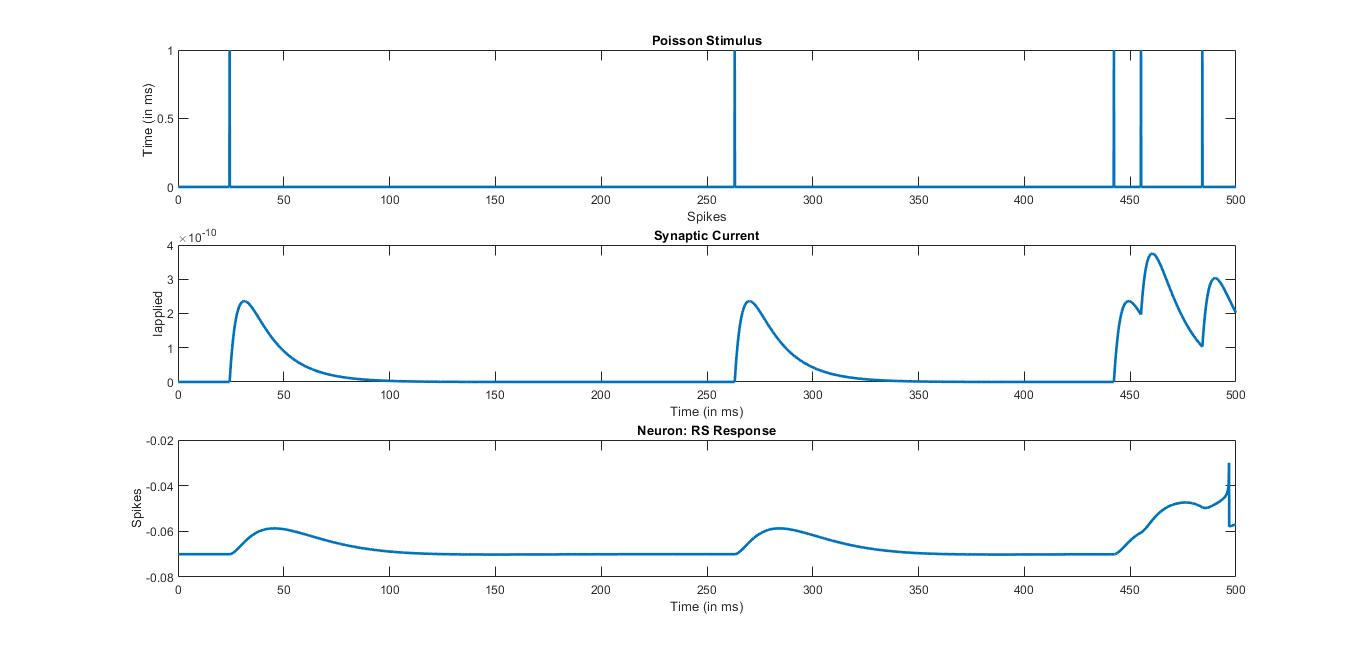
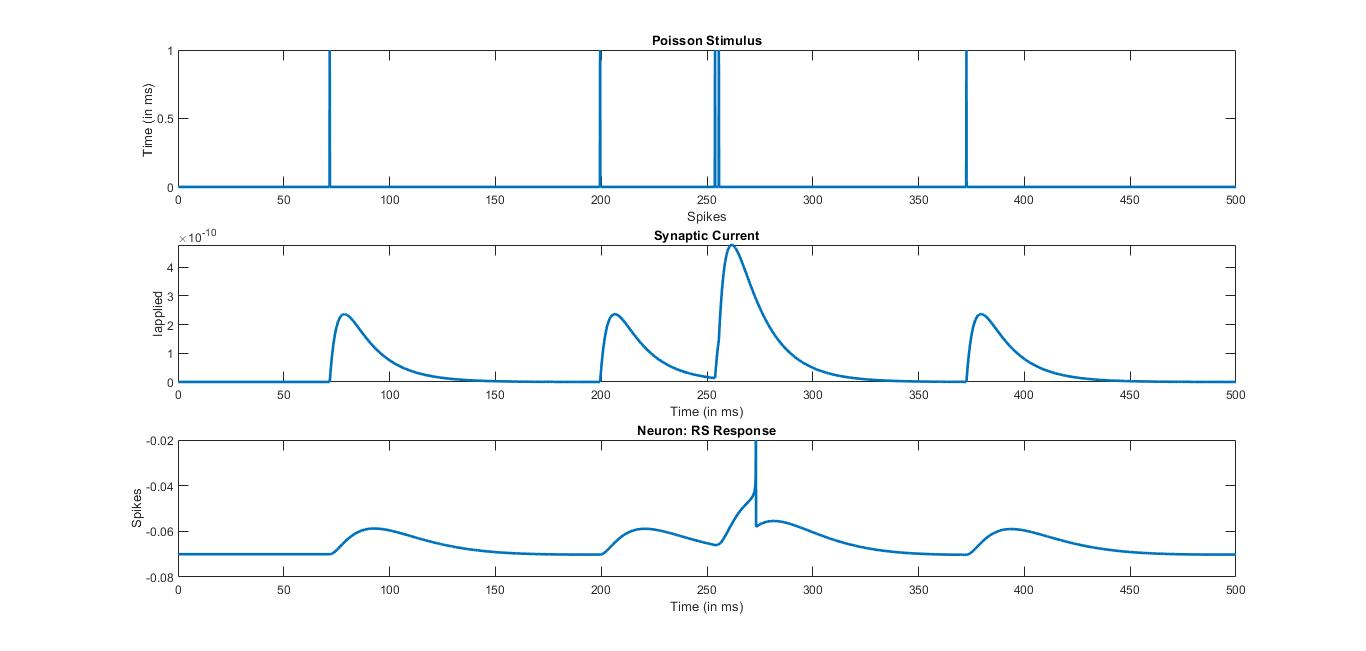
Problem 1-2 solved

diff --git a/Assignment 2/main.m b/Assignment 2/main.m
@@ -5,7 +5,7 @@ dt = 0.1e-3;
 k = 10;
 lambda = k*dt;
 time = (dt:dt:T);
-poisson_output = makedist('Poisson', 'lambda', lambda);
+poisson_output = makedist('Poisson','lambda',lambda);
 t_size = length(time);
 stimulus = zeros(1,t_size);
 fprintf('Time Instants: ');
@@ -16,12 +16,13 @@ for i = 1:t_size
         fprintf('%f, ', i*dt); %timestamp
     end
 end
+figure(1);
 subplot(3,1,1);
 plot(time.*1000,stimulus(1,:), 'Linewidth',2);
 title('Poisson Stimulus');
 xlabel('Spikes');
 ylabel('Time (in ms) ');
-% PART (b)
+% PART (b) - Total Current Calculation
 I0 = 1e-12;
 we = 500;
 tau = 15e-3;
@@ -46,10 +47,110 @@ plot(time.*1000, V_t, 'linewidth', 2);
 title(sprintf('Neuron: RS Response'));
 xlabel('Time (in ms)');
 ylabel('Spikes');
-%% Problem 2
+%% Problem 2a
 Ns = 100;
 w0 = 50;
 sigma_w = 5;
+T = 0.5;
+dt = 1e-4;
+l_t = 1;
+lambda = l_t*dt;
+syn_strength = w0 + sigma_w*randn(Ns,1); %Strength gaussian -- randn -- standard normal
+time = (dt:dt:T);
+poisson_output = makedist('Poisson', 'lambda', lambda);
+t_size = length(time);
+m_syn_stimulus = zeros(Ns, t_size);
+for i = 1:Ns % Each Synapse
+    for j = 1:t_size % Each time
+        spike = random(poisson_output,1);
+        if (spike >= 1)
+         m_syn_stimulus(i,j) = 1; %spike-train
+        end
+    end
+end
+I0 = 1e-12;
+tau = 15e-3;
+tau_s = tau/4;
+Iapplied = zeros(Ns,t_size);
+for k = 1: Ns
+    for i = 1:t_size
+        for t = 1:i
+            if (m_syn_stimulus(k,t) == 1)
+                Iapplied(k,i) = Iapplied(k,i) + I0*syn_strength(k,1)*(exp(-(i - t)*dt/tau) - exp(-(i - t)*dt/tau_s));  
+            end
+        end
+    end
+end 
+I_total = sum(Iapplied, 1); % Sum of all synapses 1 x 5000
+figure(2);
+sgtitle(sprintf('Neuron Response with w0 = 50 and sigma_w = 5'));
+subplot(2,1,1);
+plot(time.*1000,I_total(1,:), 'Linewidth',2);
+title('Synaptic Current');
+ylabel('Iapplied');
+xlabel('Time (in ms)');
+%Membrane Potential (AEF RS) :HW 1 Q3
+V_t = euler_method(1,I_total,dt); %Same function as used in HW1
+subplot(2,1,2);
+plot(time.*1000, V_t, 'linewidth', 2);
+title(sprintf('Neuron: RS Response'));
+xlabel('Time (in ms)');
+ylabel('Spikes');
+
+%RESULT: NO SPIKES ISSUED, DUE TO LESS WEIGHTS
+
+%PART (b) -- SAME STIMULUS
+w0 = 250;
+sigma_w = 25;
+syn_strength = w0 + sigma_w*randn(Ns,1); %Strength gaussian -- randn -- standard normal
+Iapplied = zeros(Ns,t_size);
+for k = 1: Ns
+    for i = 1:t_size
+        for t = 1:i
+            if (m_syn_stimulus(k,t) == 1)
+            Iapplied(k,i) = Iapplied(k,i) + I0*syn_strength(k,1)*(exp(-(i - t)*dt/tau) - exp(-(i - t)*dt/tau_s));  
+            end
+        end
+    end
+end 
+I_total = sum(Iapplied, 1); % Sum of all synapses 1 x 5000
+figure(3);
+sgtitle(sprintf('Neuron Response with w0 = 250 and sigma_w = 25'));
+subplot(2,1,1);
+plot(time.*1000,I_total(1,:), 'Linewidth',2);
+title('Synaptic Current');
+ylabel('Iapplied');
+xlabel('Time (in ms)');
+%Membrane Potential (AEF RS) :HW 1 Q3
+V_t = euler_method(1,I_total,dt); %Same function as used in HW1
+subplot(2,1,2);
+plot(time.*1000, V_t, 'linewidth', 2);
+title(sprintf('Neuron: RS Response'));
+xlabel('Time (in ms)');
+ylabel('Spikes');
+
+%RESULT: MANY SPIKES OBSERVED (68) DUE TO INCREASE IN MEAN SYNAPSE WEIGHT
+
+% Problem 3 -- SAME STIMULUS
+gamma = 1;
+w0 = 50;
+sigma_w = 5;
+syn_strength = w0 + sigma_w*randn(Ns,1); %Strength gaussian -- randn -- standard normal
+Iapplied = zeros(Ns,t_size);
+for k = 1: Ns
+    for i = 1:t_size
+        for t = 1:i
+            if (m_syn_stimulus(k,t) == 1)
+                Iapplied(k,i) = Iapplied(k,i) + I0*syn_strength(k,1)*(exp(-(i - t)*dt/tau) - exp(-(i - t)*dt/tau_s));  
+            end
+        end
+    end
+end 
+I_total = sum(Iapplied, 1); % Sum of all synapses 1 x 5000
+%Membrane Potential (AEF RS) :HW 1 Q3
+V_t = euler_method(1,I_total,dt); %Same function as used in HW1
+[Max_value,Index] = max(V_t);
+t_max = Index*dt;
 
 
 
